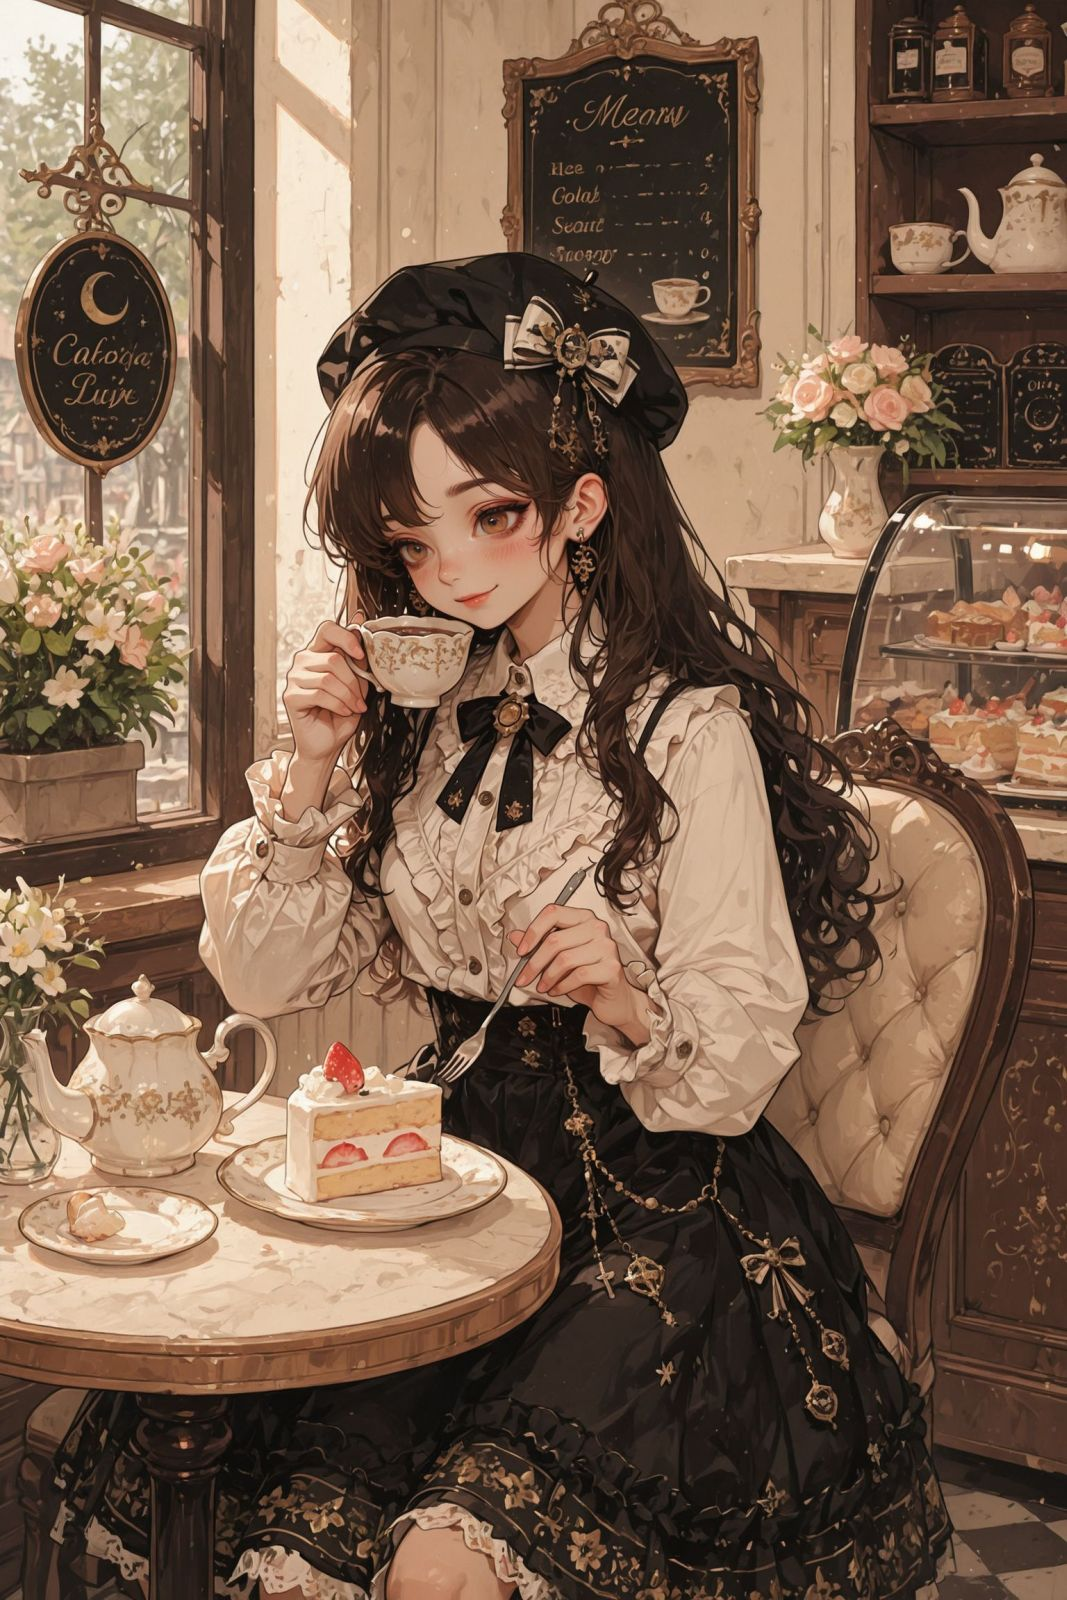
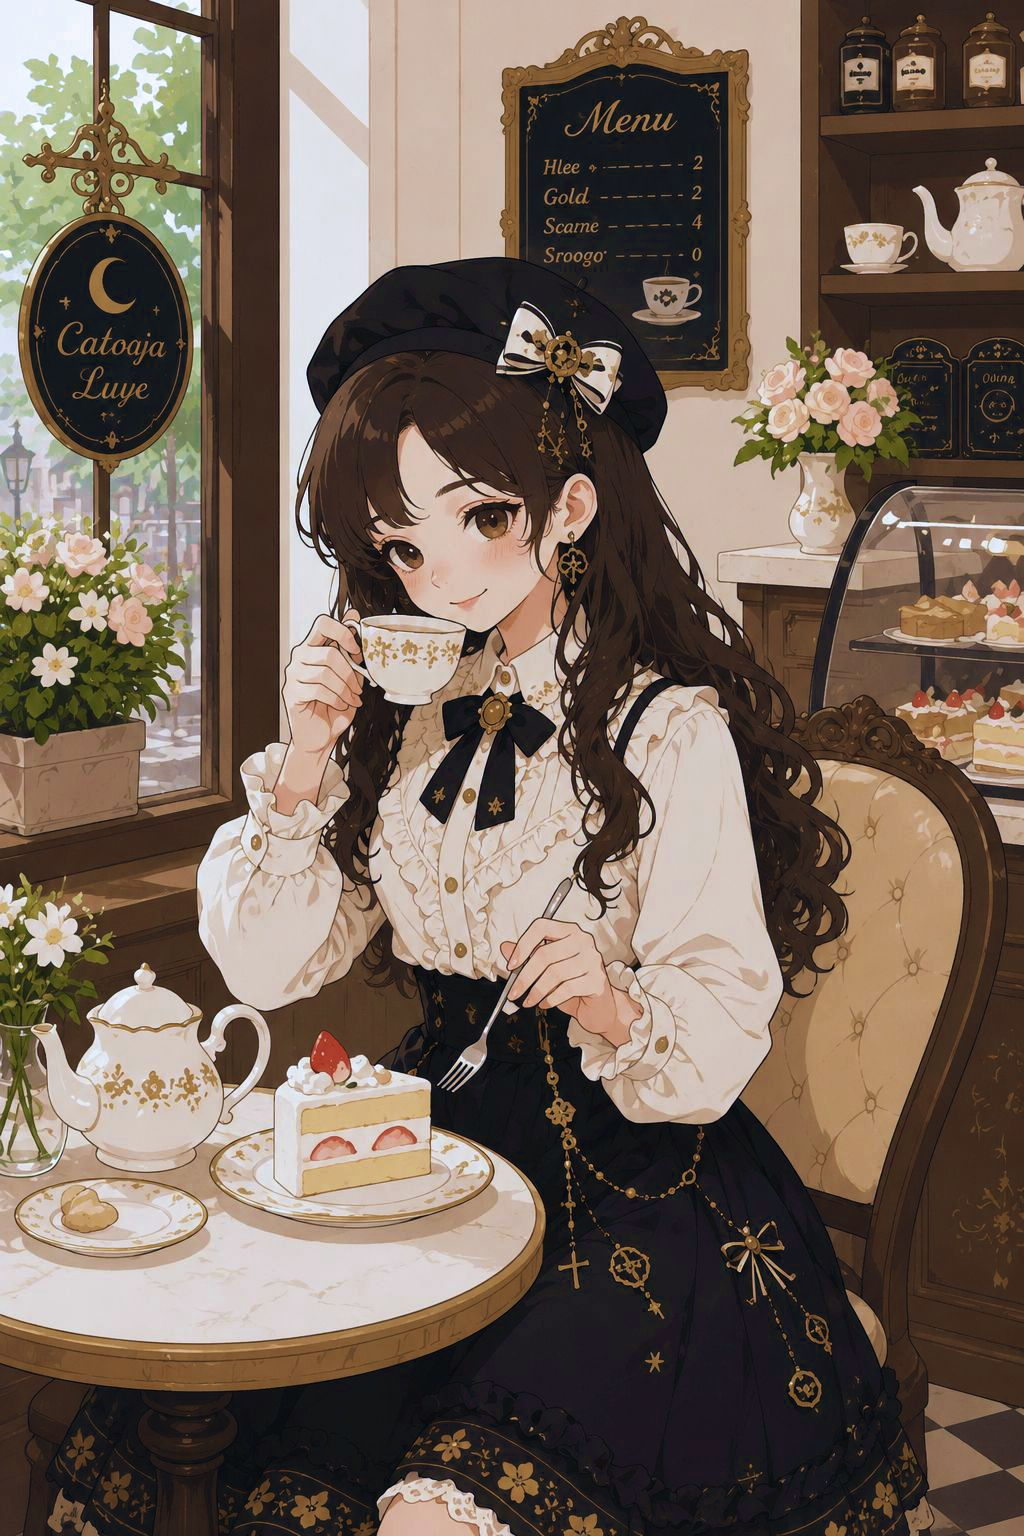
content update

diff --git a/src/scss/main.scss b/src/scss/main.scss
@@ -162,8 +162,7 @@ h4 {
   }
 
   p,
-  ul,
-  ol {
+  li {
     margin-top: 0.6rem;
     margin-bottom: 0.6rem;
   }
@@ -218,8 +217,8 @@ h4 {
 
   ul,
   ol {
-    display: flow-root;
     padding-left: 1em;
+    margin: 0;
   }
 }
 